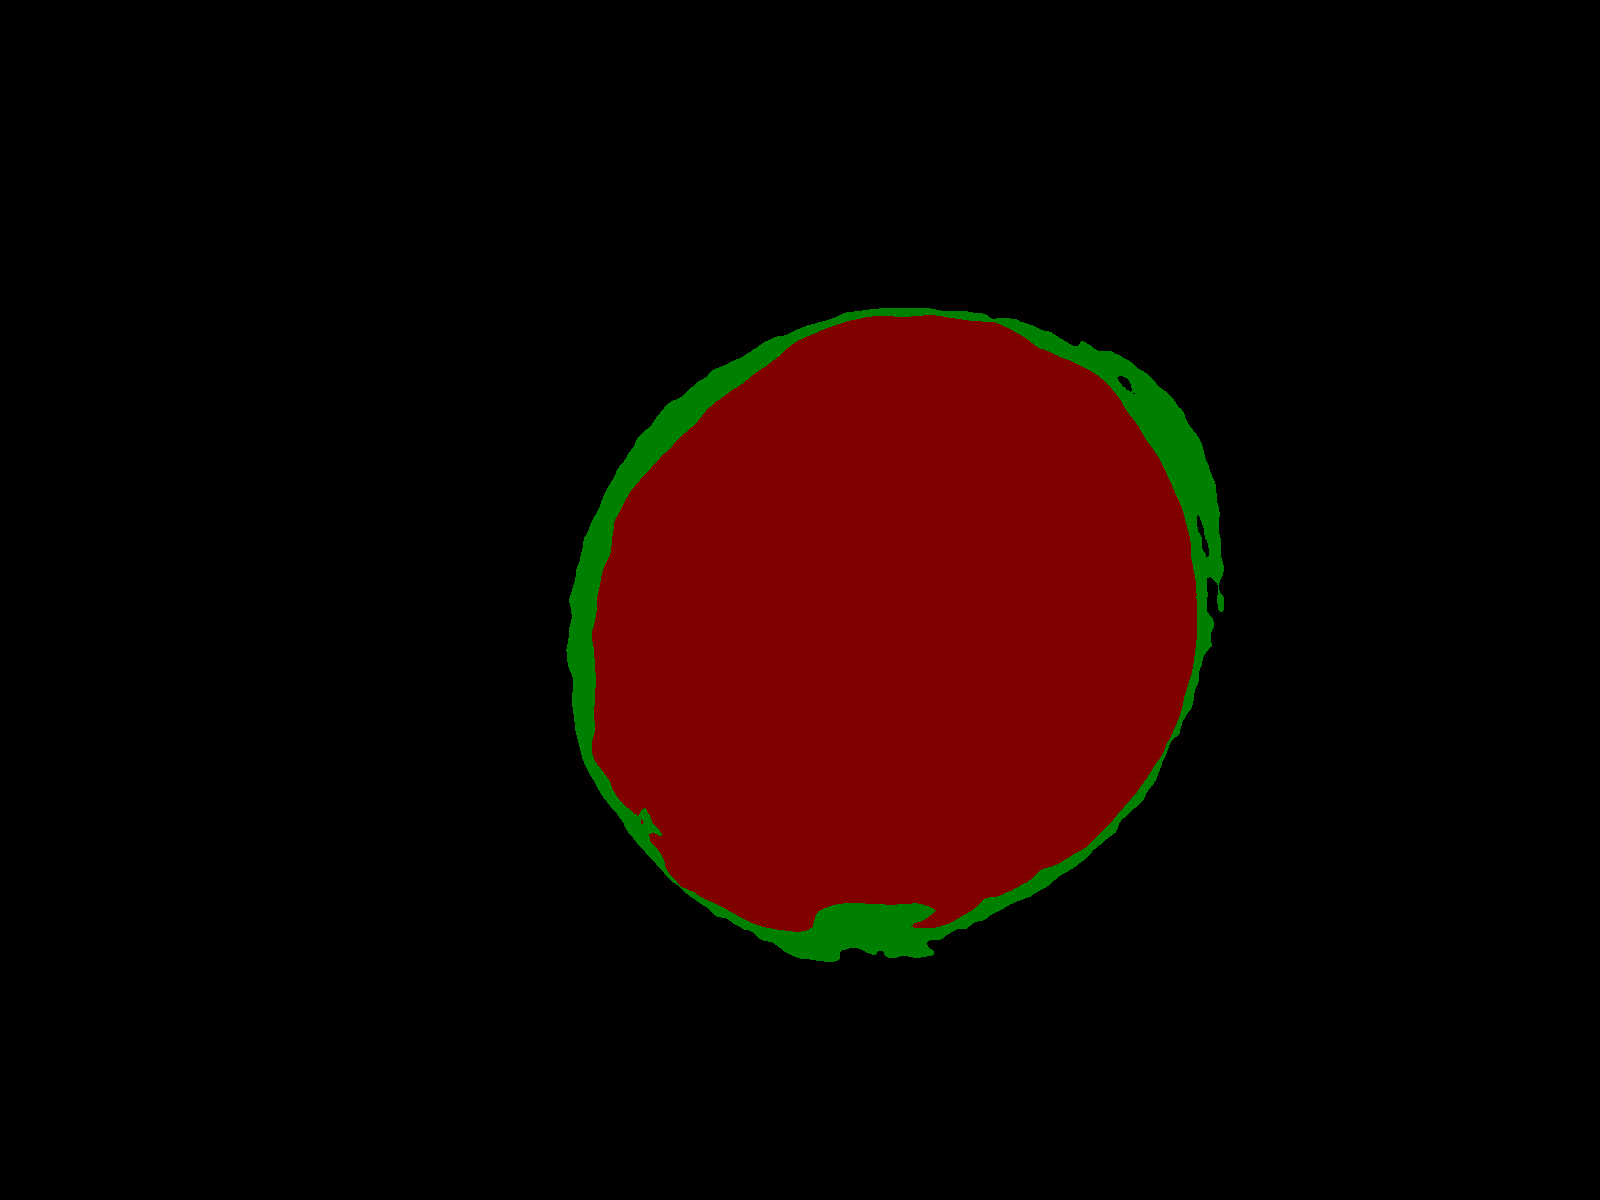
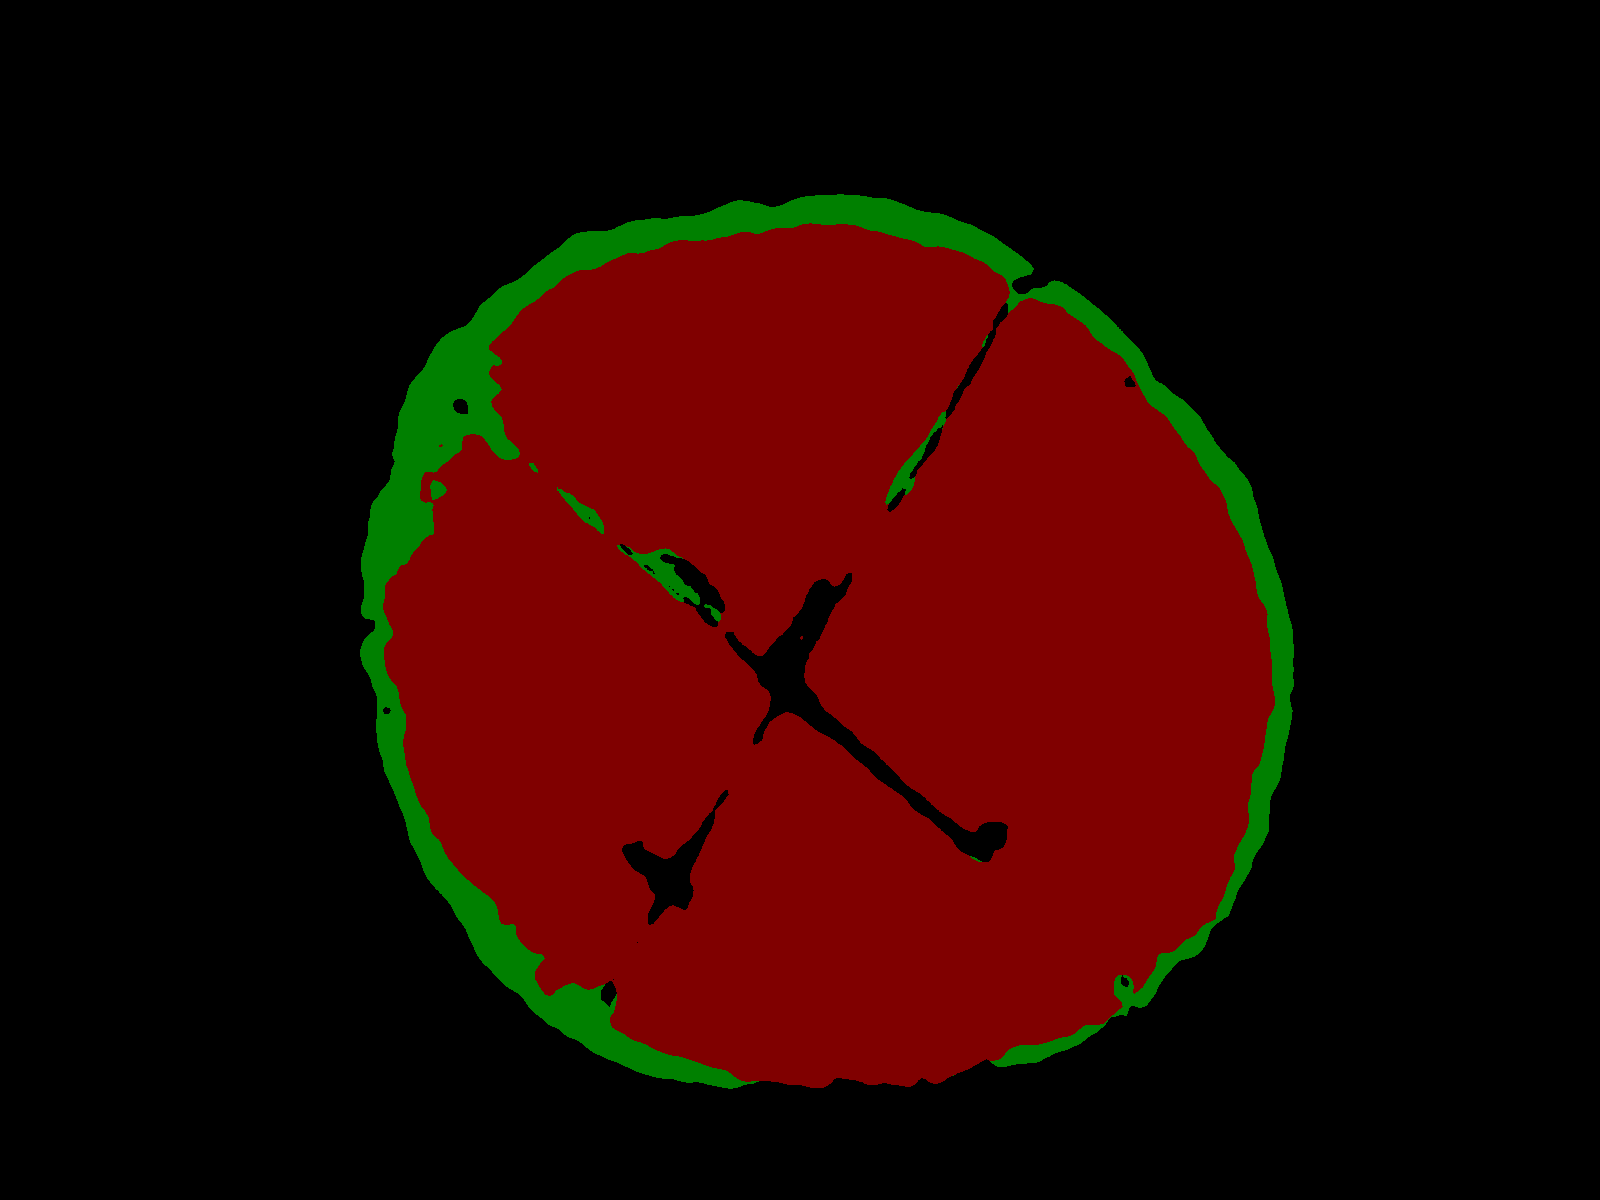
Added the spreading ratio

Changed region(s): [[0.2188, 0.1542, 0.8125, 0.925], [0.5625, 0.3392, 0.5938, 0.4008], [0.5312, 0.4008, 0.5625, 0.4317]]

diff --git a/prediction.py b/prediction.py
@@ -12,6 +12,84 @@ from torchvision import transforms
 from dataloaders.utils import  *
 from torchvision.utils import make_grid, save_image
 
+try:
+    import accimage
+except ImportError:
+    accimage = None
+
+def _is_pil_image(img):
+    if accimage is not None:
+        return isinstance(img, (Image.Image, accimage.Image))
+    else:
+        return isinstance(img, Image.Image)
+
+
+def _is_tensor_image(img):
+    return torch.is_tensor(img) and img.ndimension() == 3
+
+
+def _is_numpy_image(img):
+    return isinstance(img, np.ndarray) and (img.ndim in {2, 3})
+
+def to_pil_image(pic):
+    """Convert a tensor or an ndarray to PIL Image.
+
+    See ``ToPIlImage`` for more details.
+
+    Args:
+        pic (Tensor or numpy.ndarray): Image to be converted to PIL Image.
+
+    Returns:
+        PIL Image: Image converted to PIL Image.
+    """
+    if not(_is_numpy_image(pic) or _is_tensor_image(pic)):
+        raise TypeError('pic should be Tensor or ndarray. Got {}.'.format(type(pic)))
+
+    npimg = pic
+    mode = None
+    if isinstance(pic, torch.FloatTensor):
+        pic = pic.mul(255).byte()
+    if torch.is_tensor(pic):
+        npimg = np.transpose(pic.numpy(), (1, 2, 0))
+    assert isinstance(npimg, np.ndarray)
+    if npimg.shape[2] == 1:
+        npimg = npimg[:, :, 0]
+
+        if npimg.dtype == np.uint8:
+            mode = 'L'
+        if npimg.dtype == np.int16:
+            mode = 'I;16'
+        if npimg.dtype == np.int32:
+            mode = 'I'
+        elif npimg.dtype == np.float32:
+            mode = 'F'
+    elif npimg.shape[2] == 4:
+            if npimg.dtype == np.uint8:
+                mode = 'RGBA'
+    else:
+        if npimg.dtype == np.uint8:
+            mode = 'RGB'
+    assert mode is not None, '{} is not supported'.format(npimg.dtype)
+    return Image.fromarray(npimg, mode=mode)
+
+def evaluate_solder_spread(img_path):
+    # find the predicted area of solder spreading (1-black pixels)
+    count=0
+    black=0
+    im = Image.open(img_path)
+    #im=transforms.ToPILImage(grid_image)
+    #im=to_pil_image(grid_image)
+    for pixel in im.getdata():
+        count+=1
+        if pixel == (0, 0, 0):
+            black+=1
+
+    solder_spread=count-black
+    print("Total amount of Pixels {}".format(count))
+    print("Background Pixels: {}".format(black))
+
+    return solder_spread
+
 
 def predict_image(input_image):
     parser = argparse.ArgumentParser(description="PyTorch DeeplabV3Plus Training")
@@ -82,11 +160,11 @@ def predict_image(input_image):
     out_path="result_image.png"
     save_image(grid_image, out_path)
 
+    solder_spread=evaluate_solder_spread(out_path)
 
-    pixel_classes, pixel_counts = np.unique(grid_image, return_counts=True)
-    solder_area_total = pixel_counts[1] + pixel_counts[2]
+    #os.remove(out_path)
 
-    return out_path , solder_area_total
+    return out_path , solder_spread
 
 
 

diff --git a/img_viewer.py b/img_viewer.py
@@ -18,6 +18,7 @@ from prediction import predict_image
 THUMBNAIL_SIZE = (200,200)
 IMAGE_SIZE = (600,600)
 THUMBNAIL_PAD = (1,1)
+#PRISTINE_AREA=1
 
 
 def make_square(im, min_size=256, fill_color=(0, 0, 0, 0)):
@@ -67,6 +68,13 @@ def display_image_window(filename, window):
     except Exception as e:
         print('** Display image error **', e)
         return
+
+def save_to_csv_file():
+    # Save the current values to a csv file
+    # each line should contain 
+    # filename, SR ratio, PRISTINE_VALUE
+    # 
+    pass
     
 
 
@@ -106,8 +114,10 @@ def main():
 
     result_viewer_column = [
         [sg.Text("Prediction from Input:")],
-        [sg.Text(size=(40,1), key="-RESULT_TOUT-")],
+        [sg.Text(size=(80,1), key="-RESULT_TOUT-")],
+        [sg.Text(size=(40,1), key="-RESULT_TOUT_SR-")],
         [sg.Image(key="-RESULT-")],
+        [sg.Button(button_text="Set Pristine", key="-SAVE-PRISTINE-")],
     ]
 
 
@@ -164,9 +174,21 @@ def main():
         
         elif event == "PREDICT":
             image, count_area = predict_image(filename)
+
+            #check if pristine area exists
+            try:
+                PRISTINE_AREA 
+            except NameError:
+                PRISTINE_AREA = count_area 
             
-            window["-RESULTOUT-"].update(filename)
+            window["-RESULT_TOUT-"].update("The area of the solder area + transition is {} Pixels".format(count_area))
+            window["-RESULT_TOUT_SR-"].update("The Solder Ratio (Solder_Spread/Pristine) is {}".format(count_area/PRISTINE_AREA))
             window["-RESULT-"].update(data=convert_to_bytes(image, IMAGE_SIZE))
+        
+        elif event == "-SAVE-PRISTINE-":
+            PRISTINE_AREA=count_area
+
+
 
 
 
